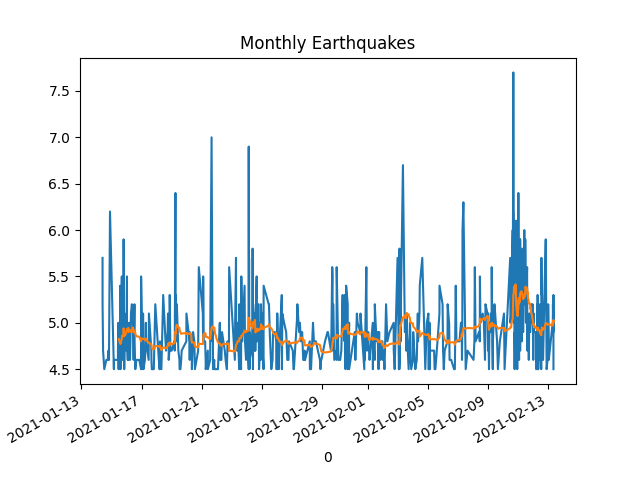
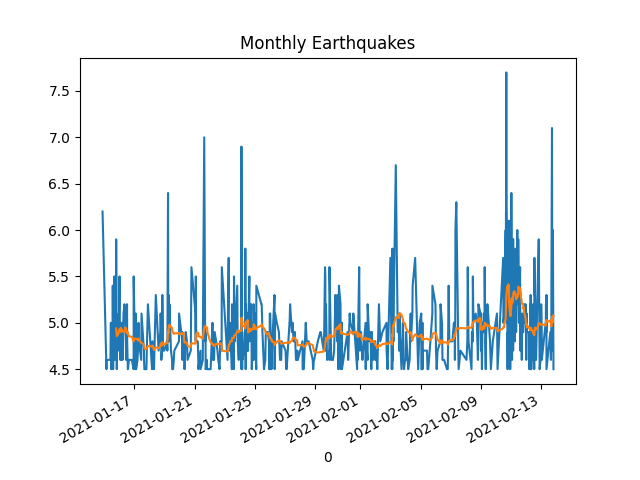
-

diff --git a/en/README.md b/en/README.md
@@ -1,121 +1,113 @@
 # Tweets
 
-"BBC World News banned in mainland China for 'content violation'"
+<blockquote class="twitter-tweet"><p lang="en" dir="ltr">We are pleased to join a public and corporate initiative for developing a <a href="https://twitter.com/hashtag/European?src=hash&amp;ref_src=twsrc%5Etfw">#European</a> hub for <a href="https://twitter.com/hashtag/green?src=hash&amp;ref_src=twsrc%5Etfw">#green</a> <a href="https://twitter.com/hashtag/fuels?src=hash&amp;ref_src=twsrc%5Etfw">#fuels</a> in Denmark’s Trekantomraadet. Everfuel’s <a href="https://twitter.com/hashtag/HySynergy?src=hash&amp;ref_src=twsrc%5Etfw">#HySynergy</a> project in Fredericia is a leading facility in the hub and planning for its Phase II expansion is well underway. <a href="https://t.co/LGJkh1BRyD">pic.twitter.com/LGJkh1BRyD</a></p>&mdash; Everfuel (@EverfuelEU) <a href="https://twitter.com/EverfuelEU/status/1360163685990338561?ref_src=twsrc%5Etfw">February 12, 2021</a></blockquote> <script async src="https://platform.twitter.com/widgets.js" charset="utf-8"></script>
 
 ---
 
-<blockquote class="twitter-tweet"><p lang="en" dir="ltr">We’re proud to be a part of a newly launched European consortium for the standardization of <a href="https://twitter.com/hashtag/fuelcell?src=hash&amp;ref_src=twsrc%5Etfw">#fuelcell</a> modules for heavy-duty applications: <a href="https://t.co/sfN2GJ1fr3">https://t.co/sfN2GJ1fr3</a></p>&mdash; Nuvera Fuel Cells (@NuveraH2) <a href="https://twitter.com/NuveraH2/status/1359870153748590592?ref_src=twsrc%5Etfw">February 11, 2021</a></blockquote> <script async src="https://platform.twitter.com/widgets.js" charset="utf-8"></script>
+BBC: "China refused to hand over key data to the World Health
+Organization (WHO) team investigating the origins of Covid-19, one of
+its members has said"
 
 ---
 
-Didnt GOOG fight Australian gov for a similar request?
-
-I guess that was broader in scope.. Make'm pay, who cares.. 3W tech
-cannot create its social structures yet, is mostly effin shit up not
-building, well, at least contribute something to the modern world (2W)
-in cold hard cash.
-
-"Google announced Wednesday it has launched its News Showcase product
-in the U.K., meaning the tech giant will now pay for news content in
-the country for the first time"
+Eartquake data retrival [code](2021/02/equakes.md)
 
 ---
 
-"Indian government to make four-day working week a possibility for 1.3 billion people"
+Soon after my quake tweet, > 7.0 shake. Two of them.
+
+<img width="340" src="https://pbs.twimg.com/media/EuH6wbhXIAI-FQU?format=png&name=small"/>
 
 ---
 
-Starting with intra- makes sense, due to potential reduced range (the
-best any renewable can offer), but improvements can be worked on while
-the rest of the system is being established.
+Thanks to content like *The Mandalorian* I bet..
+
+"Disney returns to profit as streaming business offsets theme park losses"
+
+[Link](https://youtu.be/MVuBMhXhLks)
 
 ---
 
-👍 👍 👍 
-
-"Decarbonization Roadmap for EU.. 60 MtCO2 [reduction] by
-hydrogen-powered aircraft on intra-European routes"
-
-[PDF](https://www.destination2050.eu/wp-content/uploads/2021/02/Destination2050_Report.pdf)
+<blockquote class="twitter-tweet" data-conversation="none"><p lang="en" dir="ltr">💧 Develop 5GW of low carbon hydrogen production capacity by 2030<br><br>🏘 First town powered entirely by hydrogen by 2030<br><br>Read the full plan 👉🏾 <a href="https://t.co/QCJdAjTjSd">https://t.co/QCJdAjTjSd</a> <a href="https://t.co/3Pp6AOQjXK">pic.twitter.com/3Pp6AOQjXK</a></p>&mdash; Kwasi Kwarteng (@KwasiKwarteng) <a href="https://twitter.com/KwasiKwarteng/status/1360189726075060224?ref_src=twsrc%5Etfw">February 12, 2021</a></blockquote> <script async src="https://platform.twitter.com/widgets.js" charset="utf-8"></script>
 
 ---
 
-Yes, good term to know; if fossil is used to produce H2 but carbon is
-captured, it is **blue** H2. If not, it is gray.
-
-We all prefer **green** H2 of course.
+"You said this was indo. Smell like outdo" :)
 
 ---
 
-<iframe width="340" src="https://www.youtube.com/embed/ban_rgwS1Js" frameborder="0" allow="accelerometer; autoplay; clipboard-write; encrypted-media; gyroscope; picture-in-picture" allowfullscreen></iframe>
+Daam
+
+"France wades into the South China Sea with a nuclear attack submarine"
 
 ---
 
-Jack Brouwer of UCI sounds like a champ; he's been at the renewable
-fuel concept for a long time. Wrote a white paper on pipe
-transmission, SoCalGas noticed and they launched a pilot project based
-on it, years ago.
+Pute fussing over this one guy hurts gov legitimacy. Makes it
+difficult for democracies to deal with RU.
+
+"Russia says it's ready to end ties with the European Union"
 
 ---
 
-More Wilshire crazyness. This thing keeps going up and up..
-
-```
-2021-02-10       195.87
-```
+There are so many things to compute. Fantastic models out there that
+actually demo stuff, connected to physical processes. No need to wank
+off to weirdo bullshit.
 
 ---
 
-Perusing some Fukuyama found one error already: ".. [they reasoned]
-development of human societies from simple tribal ones based on
-slavery and subsistence agriculture".
+With some WH encouragement perhaps? 
 
-Conflating slavery, tribes, and subsistence agro.. Wrong. Tribes can
-occur pre. Slavery can only happen during agro, not before that.
+"India and China begin troop pull back from disputed border area"
 
 ---
 
-Fundam phy community tries too hard to live up to achievements of prev
-generations, radio, elec, nuclear fission, etc, and see newer sciences
-gaining on them (eg biosciences), and think they have to 'go sexy' to
-remain relevant, plays on determinism, time, multip unvierses,
-etc. But that's trying to jump ahead with shaky ground underneath
-.. They dont even know what the Sun is made of.. how can they reason
-about the origin of the universe?
+They have to care, there is a whole song and dance around creation of
+particles, formation of heavier elements since the "beginning of
+time", if that story is poppycock, then a major part of their
+assumption is wrong.
+
+"Particle physicists dont care, they dont deal with that stuff"
 
 ---
 
-In different setting Im sure Hawk wld have disowned black holes
-decisively, earlier.. Sad the guy spent his whole life on junk
-science.
-
-I fault the env more, rewarding more and more curveball ideas, bcz
-they create the illusion of momentum, progress.
+Robitaille: "Cosmology is not science"
 
 ---
 
-:) Finkel with a Lavo canister.. 
-
-<blockquote class="twitter-tweet"><p lang="en" dir="ltr">Delighted to host members of the diplomatic corps in <a href="https://twitter.com/dfat?ref_src=twsrc%5Etfw">@dfat</a> to hear from Dr Alan Finkel AO and James White on Australia’s electricity transition, hydrogen and low emissions technology stretch goals. Thanks to <a href="https://twitter.com/hashtag/LAVO?src=hash&amp;ref_src=twsrc%5Etfw">#LAVO</a> for the loan of a H2 storage cylinder too! <a href="https://t.co/JeY7hvPazA">pic.twitter.com/JeY7hvPazA</a></p>&mdash; Ambassador for the Environment (@AusAmbEnviro) <a href="https://twitter.com/AusAmbEnviro/status/1359721672132030467?ref_src=twsrc%5Etfw">February 11, 2021</a></blockquote> <script async src="https://platform.twitter.com/widgets.js" charset="utf-8"></script>
+Jacobin: "It’s Long Past Time to Abolish the Filibuster"
 
 ---
 
-😆 
+We know fluids of similar attributes even in the same canister stick together.
 
-The Middle. Of the slammer.
+It is fascinating to see this at large scale, I mean, largest scale
+possible. Oceanic scale. The Atlantic and the Pacific do not mix.
 
-"Jeep pulls Springsteen ad after DWI arrest reports"
-
----
-
-There is much wisdom in population [models](2011/12/more-on-logistic-equation.md).
-I talked abt widespread deaths ~10 yrs ago. Logistic eqn models deaths proportional
-to ppl interactions (implying rush towards same resources can kill).
-A pandemic is similar, ppl interaction causes deaths.
+<img width="340" src="https://thumbs.gfycat.com/FlawedEuphoricIndianringneckparakeet-max-1mb.gif"/>
 
 ---
 
-"Hyzon SPAC Merger Includes $400 Million Investment"
+I was told during their conflict, RU media played [this
+video](https://i.imgur.com/1RBuOEV.gif?1) on a loop. That's
+Shakasvili, the then GE president
+
+---
+
+Strategically it wld also make sense to want to be an energy exporter,
+to be depended upon by bigger players, so next time maybe they wont
+get their ass kicked by Russia.
+
+---
+
+Quick term expl; they will use water (hydro) in a dam, let through
+turbines to generate power. Green. How to store that power? H2; again
+green and hydro.
+
+---
+
+Hydropower to hydrogen.. It rhymes! Go Georgia.
+
+[Link](https://www.pv-magazine.com/2020/09/28/georgia-explores-green-hydrogen/)
 
 ---
 

diff --git a/en/tweets/2021/week6.md b/en/tweets/2021/week6.md
@@ -1,5 +1,124 @@
 # Week 6
 
+"BBC World News banned in mainland China for 'content violation'"
+
+---
+
+<blockquote class="twitter-tweet"><p lang="en" dir="ltr">We’re proud to be a part of a newly launched European consortium for the standardization of <a href="https://twitter.com/hashtag/fuelcell?src=hash&amp;ref_src=twsrc%5Etfw">#fuelcell</a> modules for heavy-duty applications: <a href="https://t.co/sfN2GJ1fr3">https://t.co/sfN2GJ1fr3</a></p>&mdash; Nuvera Fuel Cells (@NuveraH2) <a href="https://twitter.com/NuveraH2/status/1359870153748590592?ref_src=twsrc%5Etfw">February 11, 2021</a></blockquote> <script async src="https://platform.twitter.com/widgets.js" charset="utf-8"></script>
+
+---
+
+Didnt GOOG fight Australian gov for a similar request?
+
+I guess that was broader in scope.. Make'm pay, who cares.. 3W tech
+cannot create its social structures yet, is mostly effin shit up not
+building, well, at least contribute something to the modern world (2W)
+in cold hard cash.
+
+"Google announced Wednesday it has launched its News Showcase product
+in the U.K., meaning the tech giant will now pay for news content in
+the country for the first time"
+
+---
+
+"Indian government to make four-day working week a possibility for 1.3 billion people"
+
+---
+
+Starting with intra- makes sense, due to potential reduced range (the
+best any renewable can offer), but improvements can be worked on while
+the rest of the system is being established.
+
+---
+
+👍 👍 👍 
+
+"Decarbonization Roadmap for EU.. 60 MtCO2 [reduction] by
+hydrogen-powered aircraft on intra-European routes"
+
+[PDF](https://www.destination2050.eu/wp-content/uploads/2021/02/Destination2050_Report.pdf)
+
+---
+
+Yes, good term to know; if fossil is used to produce H2 but carbon is
+captured, it is **blue** H2. If not, it is gray.
+
+We all prefer **green** H2 of course.
+
+---
+
+<iframe width="340" src="https://www.youtube.com/embed/ban_rgwS1Js" frameborder="0" allow="accelerometer; autoplay; clipboard-write; encrypted-media; gyroscope; picture-in-picture" allowfullscreen></iframe>
+
+---
+
+Jack Brouwer of UCI sounds like a champ; he's been at the renewable
+fuel concept for a long time. Wrote a white paper on pipe
+transmission, SoCalGas noticed and they launched a pilot project based
+on it, years ago.
+
+---
+
+More Wilshire crazyness. This thing keeps going up and up..
+
+```
+2021-02-10       195.87
+```
+
+---
+
+Perusing some Fukuyama found one error already: ".. [they reasoned]
+development of human societies from simple tribal ones based on
+slavery and subsistence agriculture".
+
+Conflating slavery, tribes, and subsistence agro.. Wrong. Tribes can
+occur pre. Slavery can only happen during agro, not before that.
+
+---
+
+Fundam phy community tries too hard to live up to achievements of prev
+generations, radio, elec, nuclear fission, etc, and see newer sciences
+gaining on them (eg biosciences), and think they have to 'go sexy' to
+remain relevant, plays on determinism, time, multip unvierses,
+etc. But that's trying to jump ahead with shaky ground underneath
+.. They dont even know what the Sun is made of.. how can they reason
+about the origin of the universe?
+
+---
+
+In different setting Im sure Hawk wld have disowned black holes
+decisively, earlier.. Sad the guy spent his whole life on junk
+science.
+
+I fault the env more, rewarding more and more curveball ideas, bcz
+they create the illusion of momentum, progress.
+
+---
+
+:) Finkel with a Lavo canister.. 
+
+<blockquote class="twitter-tweet"><p lang="en" dir="ltr">Delighted to host members of the diplomatic corps in <a href="https://twitter.com/dfat?ref_src=twsrc%5Etfw">@dfat</a> to hear from Dr Alan Finkel AO and James White on Australia’s electricity transition, hydrogen and low emissions technology stretch goals. Thanks to <a href="https://twitter.com/hashtag/LAVO?src=hash&amp;ref_src=twsrc%5Etfw">#LAVO</a> for the loan of a H2 storage cylinder too! <a href="https://t.co/JeY7hvPazA">pic.twitter.com/JeY7hvPazA</a></p>&mdash; Ambassador for the Environment (@AusAmbEnviro) <a href="https://twitter.com/AusAmbEnviro/status/1359721672132030467?ref_src=twsrc%5Etfw">February 11, 2021</a></blockquote> <script async src="https://platform.twitter.com/widgets.js" charset="utf-8"></script>
+
+---
+
+😆 
+
+The Middle. Of the slammer.
+
+"Jeep pulls Springsteen ad after DWI arrest reports"
+
+---
+
+There is much wisdom in population [models](2011/12/more-on-logistic-equation.md).
+I talked abt widespread deaths ~10 yrs ago. Logistic eqn models deaths proportional
+to ppl interactions (implying rush towards same resources can kill).
+A pandemic is similar, ppl interaction causes deaths.
+
+---
+
+"Hyzon SPAC Merger Includes $400 Million Investment"
+
+---
+
 "@SunHydrogen
 
 The trajectory of #greenhydrogen production is moving much faster than

diff --git a/en/2021/02/equakes.md b/en/2021/02/equakes.md
@@ -25,11 +25,11 @@ plt.savefig('quake.png')
 ```text
                          Magnitude
 0                                 
-2021-02-13 07:30:56.150        5.2
-2021-02-13 08:09:12.552        4.9
-2021-02-13 08:15:21.905        4.9
-2021-02-13 08:18:33.479        5.3
-2021-02-13 08:19:51.545        4.5
+2021-02-13 17:36:42.950        4.9
+2021-02-13 17:51:42.118        5.3
+2021-02-13 18:19:14.287        4.7
+2021-02-13 18:33:57.936        6.0
+2021-02-13 19:26:43.076        4.5
 ```
 
 ![](quake.png)
